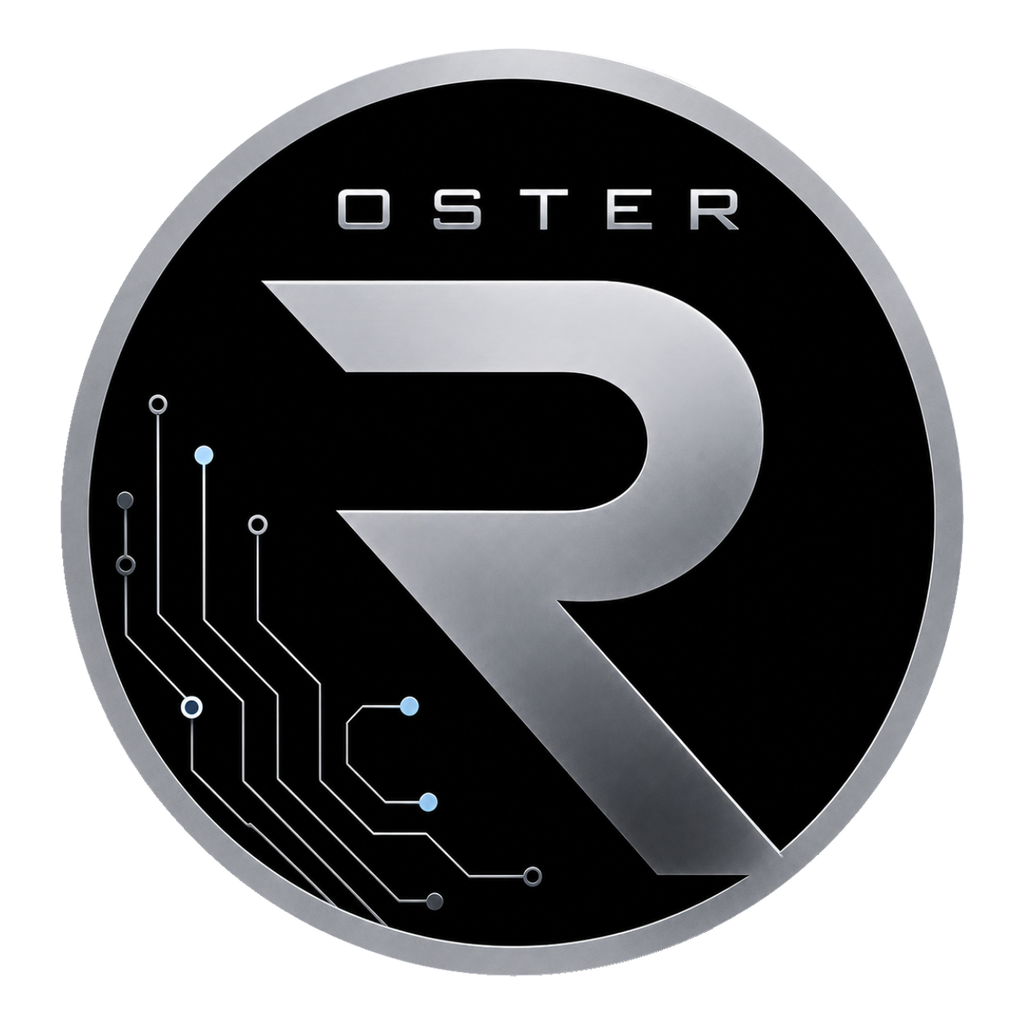
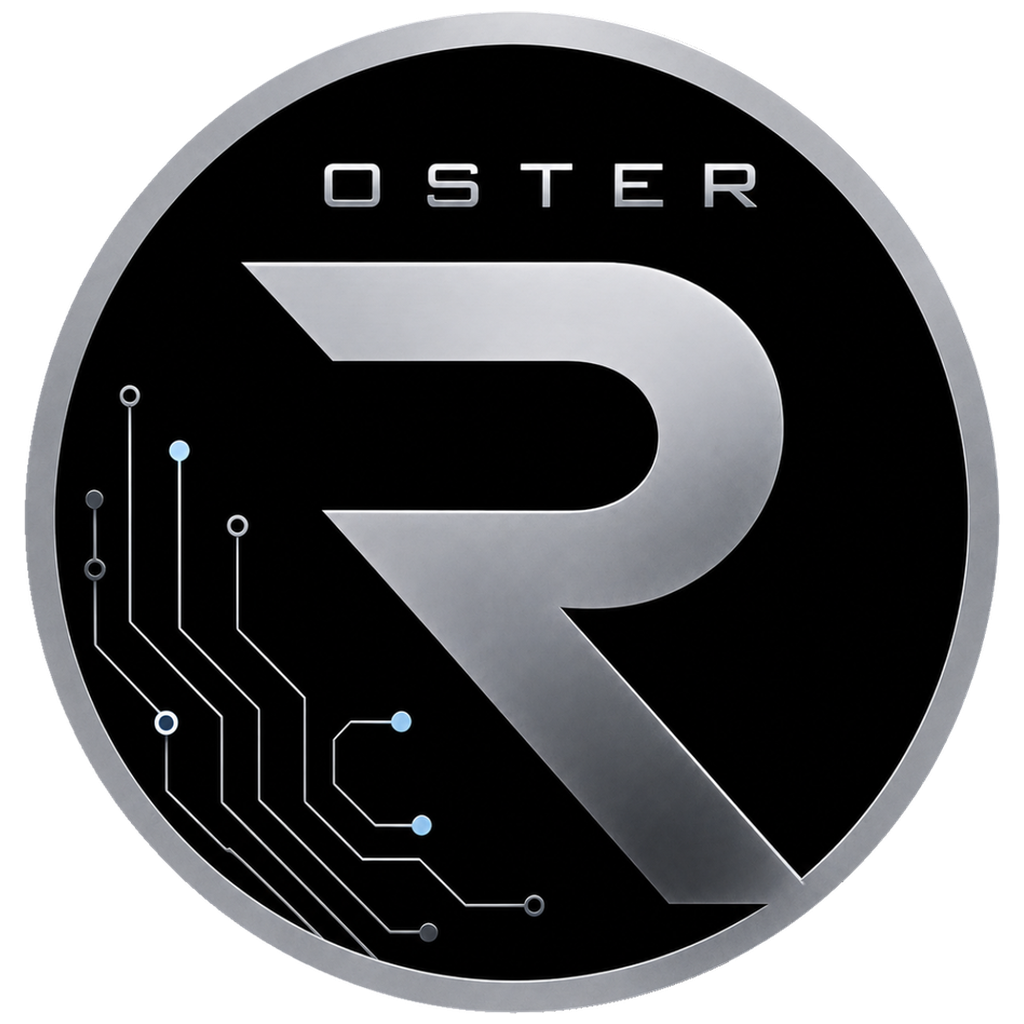
Polish LinguaFlow AI branding and controls

diff --git a/translator_app/ui.py b/translator_app/ui.py
@@ -186,7 +186,8 @@ def star_rating(value: int) -> str:
         "</span>"
     )
 
-APP_DISPLAY_NAME = "AI LinguaFlow"
+APP_DISPLAY_NAME = "LinguaFlow AI"
+APP_WINDOW_TITLE = "Oster - LinguaFlow AI Popup Translator"
 VK_RCONTROL = 0xA3
 
 
@@ -231,6 +232,11 @@ QLabel#HeroTitle {
 QLabel#HeroSubtitle {
     color: #9caaba;
     font-size: 13px;
+}
+QLabel#HotkeyHint {
+    color: #f7fbff;
+    font-size: 15px;
+    font-weight: 800;
 }
 QLabel#SectionLabel {
     color: #8fd8ff;
@@ -391,7 +397,8 @@ QListWidget::item:selected {
     color: #ffffff;
 }
 QSplitter::handle {
-    background: #202938;
+    background: transparent;
+    border: none;
 }
 QMenu {
     background: #121821;
@@ -571,16 +578,16 @@ class MainTranslatorWindow(QWidget):
     def __init__(self, primary_language_code: str) -> None:
         super().__init__()
         self.ui_language = primary_language_code
-        self.setWindowTitle(APP_DISPLAY_NAME)
+        self.setWindowTitle(APP_WINDOW_TITLE)
         self.setObjectName("MainTranslatorWindow")
         self.resize(860, 560)
 
         self.title_label = QLabel(APP_DISPLAY_NAME)
         self.title_label.setObjectName("HeroTitle")
         self.subtitle_label = QLabel()
-        self.subtitle_label.setObjectName("HeroSubtitle")
+        self.subtitle_label.setObjectName("HotkeyHint")
         self.logo_label = QLabel()
-        self.logo_label.setFixedSize(62, 62)
+        self.logo_label.setFixedSize(66, 66)
         self.logo_label.setScaledContents(True)
 
         self.source_language_input = QComboBox()
@@ -653,11 +660,9 @@ class MainTranslatorWindow(QWidget):
         text_splitter.addWidget(self._labeled_text(self.translation_section_label, self.translation_text, self.copy_button))
         text_splitter.setSizes([430, 430])
 
-        title_layout = QVBoxLayout()
-        title_layout.addWidget(self.title_label)
-        title_layout.addWidget(self.subtitle_label)
         header_layout = QHBoxLayout()
-        header_layout.addLayout(title_layout, 1)
+        header_layout.addWidget(self.subtitle_label, 1)
+        header_layout.addWidget(self.title_label, 0, Qt.AlignmentFlag.AlignVCenter)
         header_layout.addWidget(self.logo_label)
 
         root = QVBoxLayout(self)
@@ -677,7 +682,7 @@ class MainTranslatorWindow(QWidget):
 
     def apply_locale(self, language_code: str) -> None:
         self.ui_language = language_code
-        self.subtitle_label.setText(t(language_code, "main_subtitle"))
+        self.subtitle_label.setText("Select text and press Ctrl+C+C for instant popup translation")
         self.from_label.setText(t(language_code, "from"))
         self.to_label.setText(t(language_code, "to"))
         self.source_section_label.setText(t(language_code, "original"))
@@ -965,7 +970,6 @@ class SettingsDialog(QDialog):
         self.key_status_labels: dict[str, QLabel] = {}
         self.key_check_buttons: dict[str, QPushButton] = {}
         self.key_delete_buttons: dict[str, QPushButton] = {}
-        self.model_dropdown_buttons: dict[str, QPushButton] = {}
         self.key_row_labels: dict[str, QLabel] = {}
         self.model_row_labels: dict[str, QLabel] = {}
         for provider, label in PROVIDERS:
@@ -999,11 +1003,6 @@ class SettingsDialog(QDialog):
                 model_index = 0
             model_input.setCurrentIndex(model_index)
             self.model_inputs[provider] = model_input
-            dropdown_button = QPushButton("▼")
-            dropdown_button.setObjectName("DropdownButton")
-            dropdown_button.setToolTip("Open model list")
-            dropdown_button.clicked.connect(lambda _checked=False, p=provider: self.model_inputs[p].showPopup())
-            self.model_dropdown_buttons[provider] = dropdown_button
             if not saved_key_status.get(provider):
                 initial_status = "missing"
             elif self.key_valid_status.get(provider) is True:
@@ -1028,8 +1027,11 @@ class SettingsDialog(QDialog):
 
         self.info_button = QPushButton("?")
         self.info_button.setObjectName("InfoButton")
-        self.info_button.setFixedSize(28, 28)
+        self.info_button.setFixedSize(34, 34)
         self.info_button.clicked.connect(self.show_model_info)
+        self.recommendations_label = QLabel()
+        self.recommendations_label.setObjectName("SectionLabel")
+        self.recommendations_label.setAlignment(Qt.AlignmentFlag.AlignCenter)
 
         self.tabs = QTabWidget()
         self.tabs.addTab(self._build_general_tab(), "")
@@ -1071,7 +1073,12 @@ class SettingsDialog(QDialog):
         self.api_header_label = QLabel()
         header.addWidget(self.api_header_label)
         header.addStretch(1)
-        header.addWidget(self.info_button)
+        recommendations_box = QVBoxLayout()
+        recommendations_box.setSpacing(4)
+        recommendations_box.addWidget(self.recommendations_label, alignment=Qt.AlignmentFlag.AlignCenter)
+        recommendations_box.addWidget(self.info_button, alignment=Qt.AlignmentFlag.AlignCenter)
+        header.addLayout(recommendations_box)
+        header.addStretch(1)
         layout.addLayout(header)
 
         form = QFormLayout()
@@ -1097,7 +1104,6 @@ class SettingsDialog(QDialog):
         layout.setContentsMargins(0, 0, 0, 0)
         layout.setSpacing(6)
         layout.addWidget(self.model_inputs[provider], 1)
-        layout.addWidget(self.model_dropdown_buttons[provider])
         return widget
 
     def show_model_info(self) -> None:
@@ -1192,6 +1198,7 @@ class SettingsDialog(QDialog):
         self.autostart_checkbox.setText(t(language_code, "autostart"))
         self.desktop_shortcut_checkbox.setText(t(language_code, "desktop_shortcut"))
         self.api_header_label.setText(t(language_code, "api_keys_models"))
+        self.recommendations_label.setText(t(language_code, "recommendations"))
         self.info_button.setToolTip(t(language_code, "info_tooltip"))
         save_button = self.buttons.button(QDialogButtonBox.StandardButton.Save)
         cancel_button = self.buttons.button(QDialogButtonBox.StandardButton.Cancel)
@@ -1205,7 +1212,6 @@ class SettingsDialog(QDialog):
             self.model_row_labels[provider].setText(f"{label} {t(language_code, 'model')}")
             self.key_check_buttons[provider].setText(t(language_code, "check"))
             self.key_delete_buttons[provider].setText(t(language_code, "delete"))
-            self.model_dropdown_buttons[provider].setToolTip(t(language_code, "model"))
             placeholder = t(language_code, "saved_key_exists") if self.saved_key_status.get(provider) else t(
                 language_code,
                 "api_key_placeholder",

diff --git a/translator_app/i18n.py b/translator_app/i18n.py
@@ -23,7 +23,7 @@ TRANSLATIONS: dict[str, dict[str, str]] = {
         "target": "Цель: {language}",
         "translated_to": "Переведено на {language}",
         "copied": "Скопировано",
-        "settings_title": "Настройки переводчика",
+        "settings_title": "Настройки - LinguaFlow AI",
         "general": "Основное",
         "api": "API",
         "provider": "Провайдер",
@@ -52,6 +52,7 @@ TRANSLATIONS: dict[str, dict[str, str]] = {
         "key_delete_confirm": "Удалить сохранённый ключ {provider}?",
         "info_tooltip": "Рекомендованные модели и советы по стоимости",
         "recommended_models": "Рекомендованные модели",
+        "recommendations": "Рекомендации",
         "provider_column": "Провайдер",
         "model_column": "Модель",
         "use_column": "Назначение",
@@ -92,7 +93,7 @@ TRANSLATIONS: dict[str, dict[str, str]] = {
         "target": "Target: {language}",
         "translated_to": "Translated to {language}",
         "copied": "Copied",
-        "settings_title": "Translator Settings",
+        "settings_title": "Settings - LinguaFlow AI",
         "general": "General",
         "api": "API",
         "provider": "Provider",
@@ -121,6 +122,7 @@ TRANSLATIONS: dict[str, dict[str, str]] = {
         "key_delete_confirm": "Delete the saved {provider} key?",
         "info_tooltip": "Recommended models and cost tips",
         "recommended_models": "Recommended models",
+        "recommendations": "Recommendations",
         "provider_column": "Provider",
         "model_column": "Model",
         "use_column": "Use",
@@ -161,7 +163,7 @@ TRANSLATIONS: dict[str, dict[str, str]] = {
         "target": "Ziel: {language}",
         "translated_to": "Übersetzt nach {language}",
         "copied": "Kopiert",
-        "settings_title": "Übersetzer-Einstellungen",
+        "settings_title": "Einstellungen - LinguaFlow AI",
         "general": "Allgemein",
         "api": "API",
         "provider": "Anbieter",
@@ -190,6 +192,7 @@ TRANSLATIONS: dict[str, dict[str, str]] = {
         "key_delete_confirm": "Gespeicherten {provider}-Schlüssel löschen?",
         "info_tooltip": "Empfohlene Modelle und Kostentipps",
         "recommended_models": "Empfohlene Modelle",
+        "recommendations": "Empfehlungen",
         "provider_column": "Anbieter",
         "model_column": "Modell",
         "use_column": "Einsatz",
@@ -230,7 +233,7 @@ TRANSLATIONS: dict[str, dict[str, str]] = {
         "target": "Destino: {language}",
         "translated_to": "Traducido a {language}",
         "copied": "Copiado",
-        "settings_title": "Ajustes del traductor",
+        "settings_title": "Ajustes - LinguaFlow AI",
         "general": "General",
         "api": "API",
         "provider": "Proveedor",
@@ -259,6 +262,7 @@ TRANSLATIONS: dict[str, dict[str, str]] = {
         "key_delete_confirm": "¿Eliminar la clave guardada de {provider}?",
         "info_tooltip": "Modelos recomendados y consejos de coste",
         "recommended_models": "Modelos recomendados",
+        "recommendations": "Recomendaciones",
         "provider_column": "Proveedor",
         "model_column": "Modelo",
         "use_column": "Uso",
@@ -299,7 +303,7 @@ TRANSLATIONS: dict[str, dict[str, str]] = {
         "target": "目标：{language}",
         "translated_to": "已翻译为 {language}",
         "copied": "已复制",
-        "settings_title": "翻译器设置",
+        "settings_title": "设置 - LinguaFlow AI",
         "general": "常规",
         "api": "API",
         "provider": "提供商",
@@ -328,6 +332,7 @@ TRANSLATIONS: dict[str, dict[str, str]] = {
         "key_delete_confirm": "删除已保存的 {provider} 密钥？",
         "info_tooltip": "推荐模型和费用建议",
         "recommended_models": "推荐模型",
+        "recommendations": "推荐",
         "provider_column": "提供商",
         "model_column": "模型",
         "use_column": "用途",

diff --git a/translator_app/startup.py b/translator_app/startup.py
@@ -7,9 +7,10 @@ import uuid
 from pathlib import Path
 
 
-APP_SHORTCUT_NAME = "AI LinguaFlow.url"
+APP_SHORTCUT_NAME = "LinguaFlow AI Translator.url"
 LEGACY_SHORTCUT_NAME = "WindowsTranslator.url"
 OLD_APP_SHORTCUT_NAME = "AI-LinguaFlow.url"
+PREVIOUS_APP_SHORTCUT_NAME = "AI LinguaFlow.url"
 
 
 def startup_shortcut_path() -> Path:
@@ -53,6 +54,9 @@ def set_start_with_windows(enabled: bool) -> None:
     old_shortcut = shortcut.with_name(OLD_APP_SHORTCUT_NAME)
     if old_shortcut.exists() and not enabled:
         old_shortcut.unlink()
+    previous_shortcut = shortcut.with_name(PREVIOUS_APP_SHORTCUT_NAME)
+    if previous_shortcut.exists() and not enabled:
+        previous_shortcut.unlink()
 
 
 def is_start_with_windows_enabled() -> bool:
@@ -95,9 +99,11 @@ def _write_url_shortcut(path: Path, target: str, icon: str) -> None:
 def _stale_desktop_shortcut_paths(active_shortcut: Path) -> list[Path]:
     candidates = [
         active_shortcut.with_name(OLD_APP_SHORTCUT_NAME),
+        active_shortcut.with_name(PREVIOUS_APP_SHORTCUT_NAME),
         active_shortcut.with_name(LEGACY_SHORTCUT_NAME),
         Path.home() / "Desktop" / APP_SHORTCUT_NAME,
         Path.home() / "Desktop" / OLD_APP_SHORTCUT_NAME,
+        Path.home() / "Desktop" / PREVIOUS_APP_SHORTCUT_NAME,
         Path.home() / "Desktop" / LEGACY_SHORTCUT_NAME,
     ]
     return [path for path in candidates if path != active_shortcut]

diff --git a/tests/test_startup.py b/tests/test_startup.py
@@ -6,18 +6,18 @@ from translator_app import startup
 def test_desktop_shortcut_uses_app_name(monkeypatch, tmp_path) -> None:
     monkeypatch.setattr(startup, "_known_desktop_path", lambda: tmp_path / "OneDrive" / "Desktop")
 
-    assert startup.desktop_shortcut_path() == tmp_path / "OneDrive" / "Desktop" / "AI LinguaFlow.url"
+    assert startup.desktop_shortcut_path() == tmp_path / "OneDrive" / "Desktop" / "LinguaFlow AI Translator.url"
 
 
 def test_desktop_shortcut_falls_back_to_home_desktop(monkeypatch, tmp_path) -> None:
     monkeypatch.setattr(startup, "_known_desktop_path", lambda: None)
     monkeypatch.setattr(startup.Path, "home", lambda: tmp_path)
 
-    assert startup.desktop_shortcut_path() == tmp_path / "Desktop" / "AI LinguaFlow.url"
+    assert startup.desktop_shortcut_path() == tmp_path / "Desktop" / "LinguaFlow AI Translator.url"
 
 
 def test_url_shortcut_contains_target_and_icon(tmp_path) -> None:
-    shortcut = tmp_path / "AI LinguaFlow.url"
+    shortcut = tmp_path / "LinguaFlow AI Translator.url"
 
     startup._write_url_shortcut(shortcut, r"C:\App\WindowsTranslator.exe", r"C:\App\WindowsTranslator.exe")
 

diff --git a/translator_app/hotkey.py b/translator_app/hotkey.py
@@ -143,7 +143,7 @@ class WindowsCtrlCHook:
                 return
             self._ready.clear()
             self._last_error = 0
-            self._thread = threading.Thread(target=self._run, name="AI LinguaFlow hotkey", daemon=True)
+            self._thread = threading.Thread(target=self._run, name="LinguaFlow AI hotkey", daemon=True)
             self._thread.start()
         self._ready.wait(timeout=1.5)
 

diff --git a/README.md b/README.md
@@ -1,6 +1,6 @@
-# AI LinguaFlow
+# LinguaFlow AI
 
-AI LinguaFlow is a small Windows translator built around a fast `Ctrl+C+C` workflow for translating selected text in a popup. It also opens normally from the desktop shortcut for manual translation between selected languages.
+LinguaFlow AI is a small Windows translator built around a fast `Ctrl+C+C` workflow for translating selected text in a popup. It also opens normally from the desktop shortcut for manual translation between selected languages.
 
 Default behavior:
 
@@ -25,7 +25,7 @@ python -m translator_app
 
 On first run, the settings window opens automatically if the selected provider has no saved key. Open tray menu -> `Settings` any time to change provider, primary language, models, API keys, desktop shortcut, or autostart. API keys can be checked with a real provider request and deleted from local secure storage.
 
-The app uses an AI LinguaFlow icon and Apple-inspired interface based on the repository/avatar style. A desktop shortcut is created automatically on first run and can be toggled in Settings.
+The app uses a LinguaFlow AI icon and Apple-inspired interface based on the repository/avatar style. A desktop shortcut is created automatically on first run and can be toggled in Settings.
 
 Supported providers and default models:
 

diff --git a/AGENTS.md b/AGENTS.md
@@ -2,7 +2,7 @@
 
 ## Project
 
-AI LinguaFlow is a Windows translator whose main workflow is fast selected-text translation through a `Ctrl+C+C` popup. It also includes a normal manual translator window for chosen source/target languages, translates through the selected AI provider, and keeps local translation history.
+LinguaFlow AI is a Windows translator whose main workflow is fast selected-text translation through a `Ctrl+C+C` popup. It also includes a normal manual translator window for chosen source/target languages, translates through the selected AI provider, and keeps local translation history.
 
 Repository: `0sterman/AI-LinguaFlow`
 
@@ -154,7 +154,7 @@ If `dist\WindowsTranslator` is locked during build, stop the running `WindowsTra
 
 ## Current Known Limits
 
-- Global hotkeys may not work inside elevated apps unless AI LinguaFlow runs with matching privileges.
+- Global hotkeys may not work inside elevated apps unless LinguaFlow AI runs with matching privileges.
 - Language detection is heuristic.
 - Very long text is rejected by the first-version length limit in `openai_client.py`.
 - The executable is a PyInstaller folder build and is larger than a native Windows app.